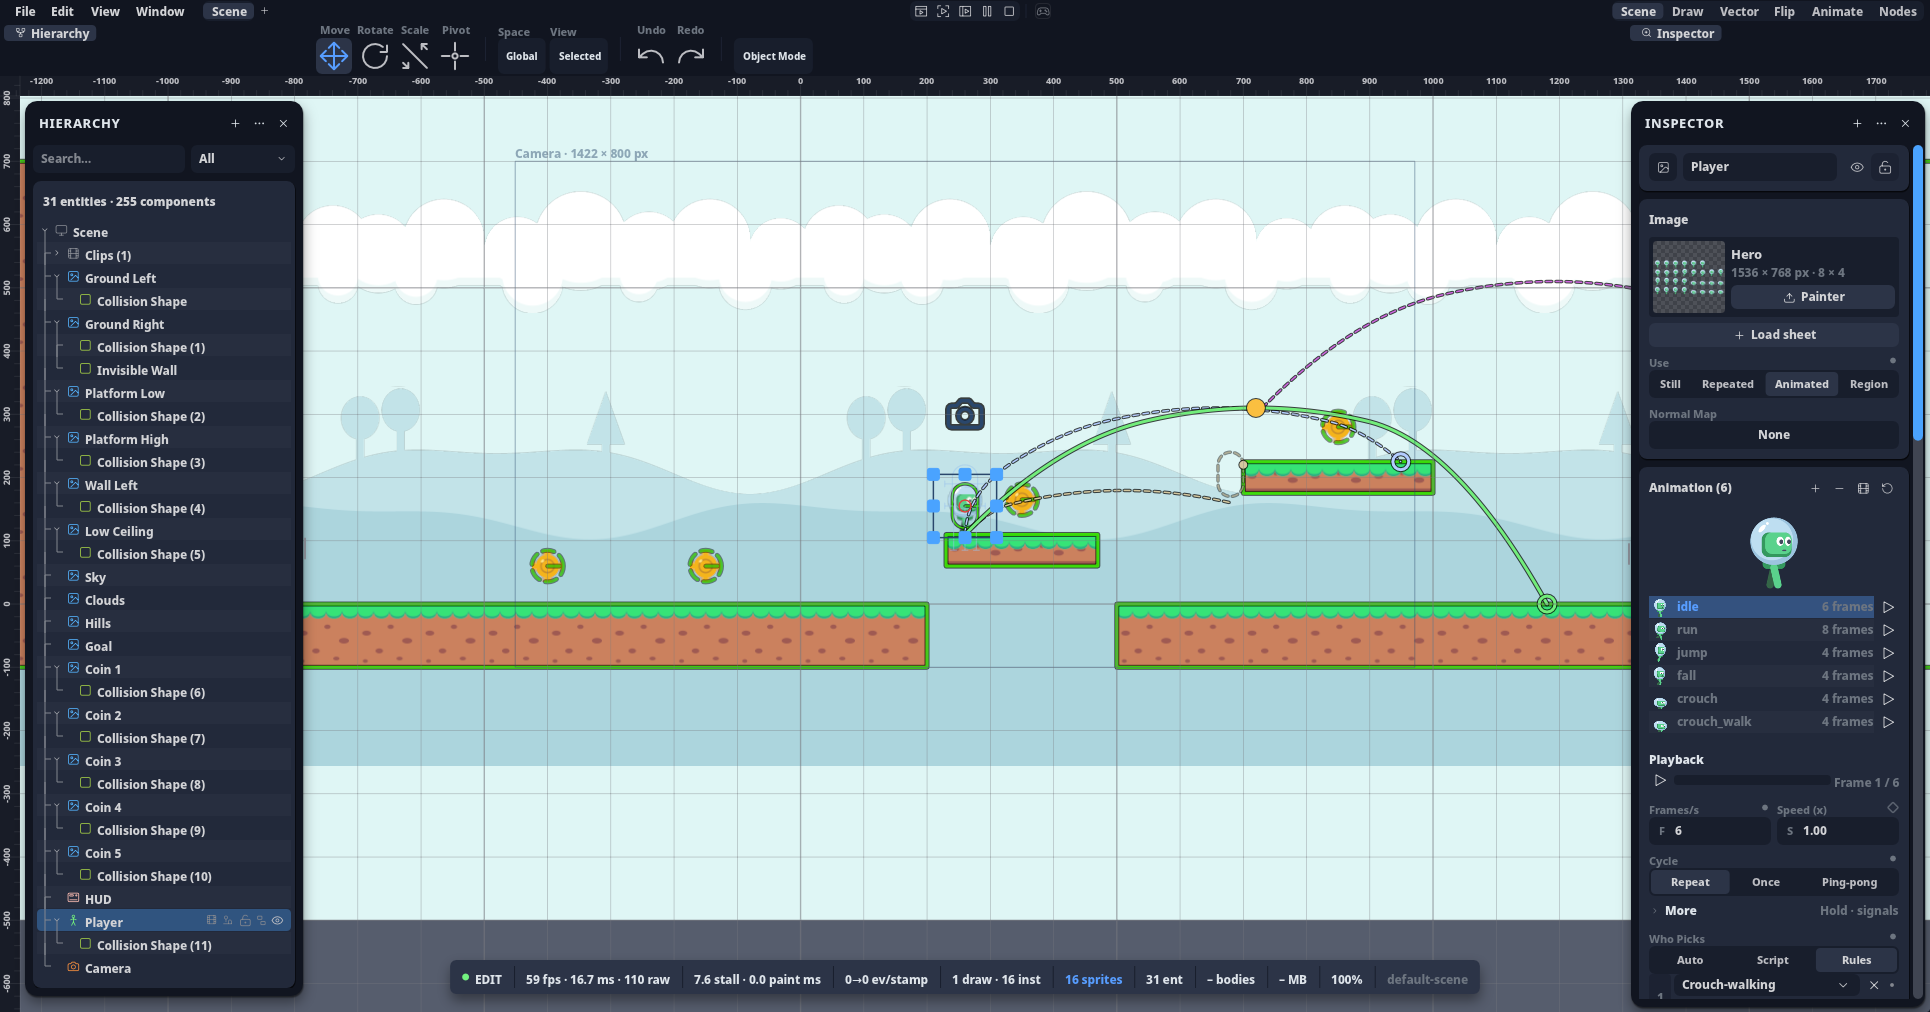
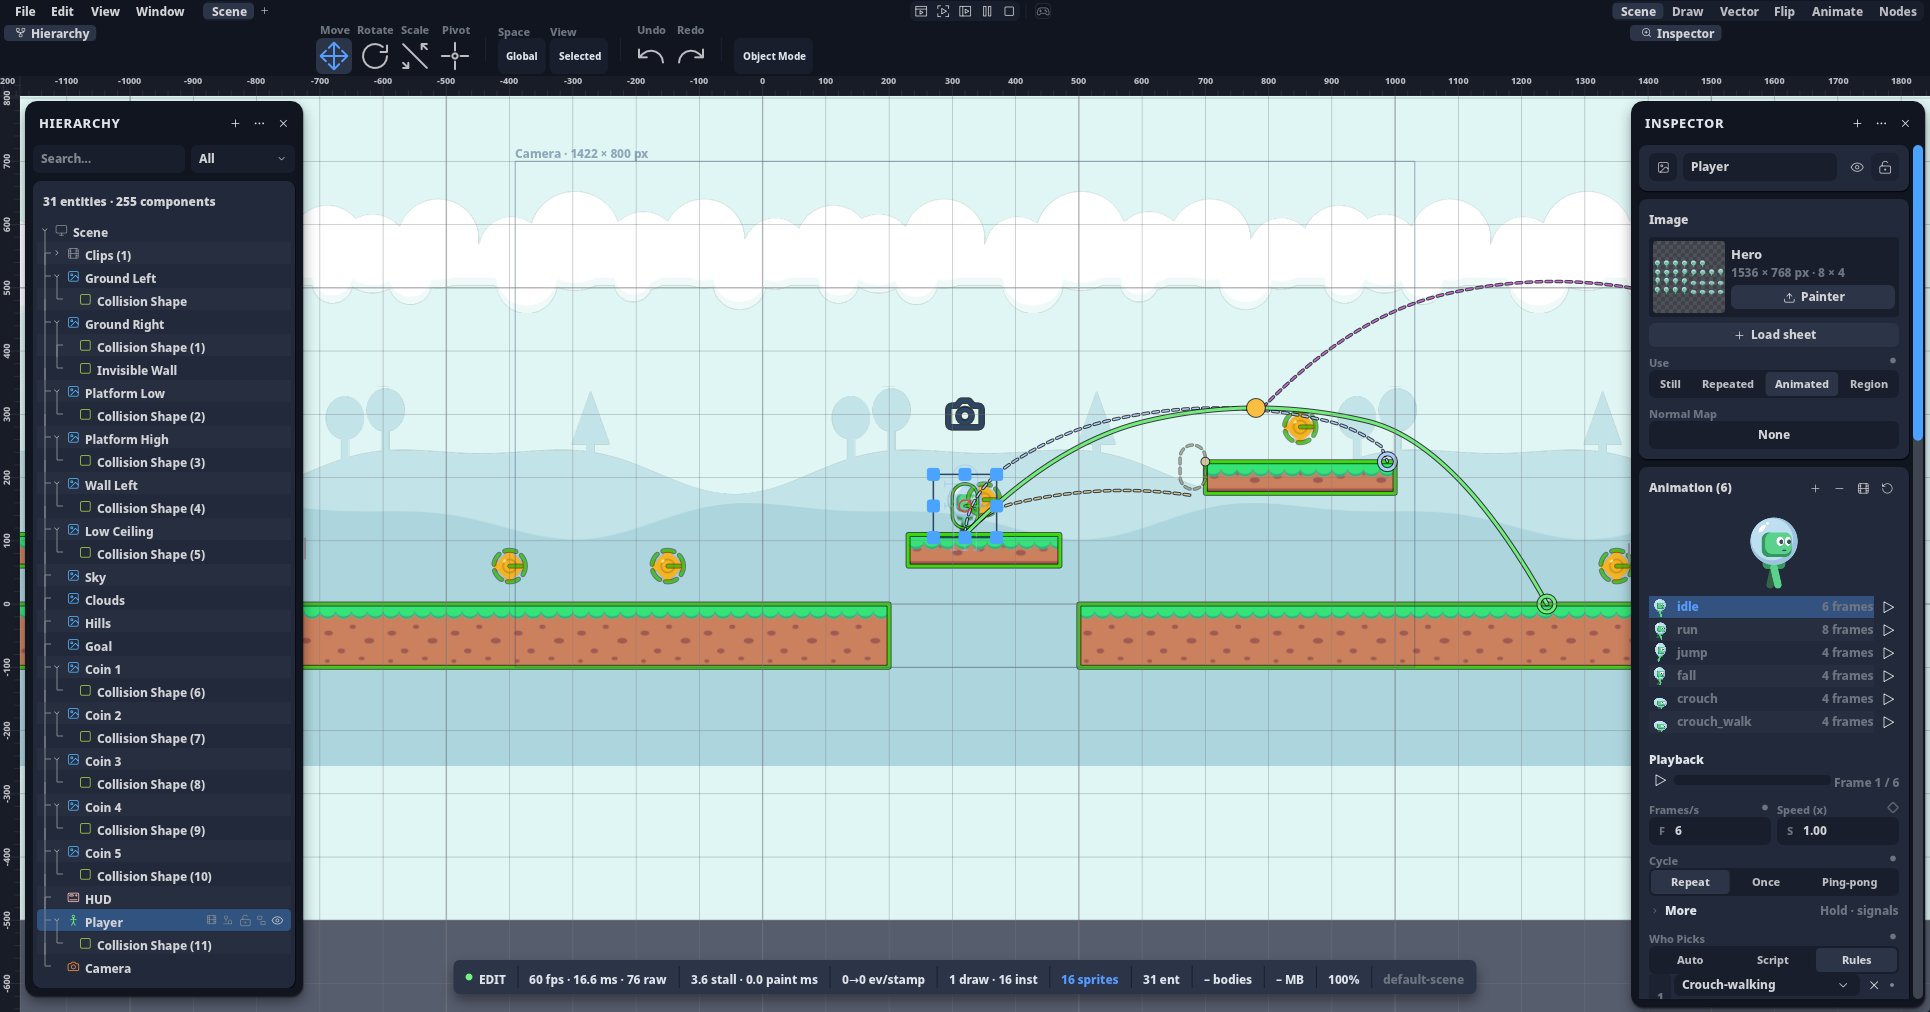
fix(GEF 04): a foto do terreno segue o pouso pela perna — recuo 2,1 → 1,5 m (o Full agarrava a borda da Platform High, no jogo e na curva) e gate novo contra o player real
Medido com o player real (ponte, cápsula sem atrito, LockRotation, assentado no pé da pose sobre a Platform Low prolongada à esquerda): a 2,1 m o Full sai do voo livre no tique 73 em x 9,90 / pé 2,36 (a perna agarra a borda da alta, x 10) — o mesmo tique e x da curva, logo é verdade do jogo, não defeito do corte. Viragens: o Full agarra a borda com recuo >= 1,75 (1,70 ainda desce ao chão, x 12,20); o Standing larga a alta com recuo <= 1,0. A 1,5 m: Full desce ao chão (x 12,40, tique 92), Standing pousa na alta (x 9,88, tique 73), Short bate na parede (x 6,8, pé 1,715; o x do jogo trava no mesmo tique). Gates: a_foto_do_terreno_desce_ao_chao_e_pousa_na_plataforma_alta exige o Full além da Platform High inteira (x > 10); a_foto_do_terreno_e_o_que_o_player_real_faz confere os três papéis (tipo de toque, tique e x) contra o jogo. Mutação recuo 2,1 => os dois vermelhos; restaurado. Fotos curva_terreno(.png|_zoom.png) e curva_e_cartao.png refeitas.

diff --git a/crates/ph2d-physics-scene/src/fotos_dos_cartoes_tests.rs b/crates/ph2d-physics-scene/src/fotos_dos_cartoes_tests.rs
@@ -107,8 +107,8 @@ fn a_foto_do_terreno_desce_ao_chao_e_pousa_na_plataforma_alta() {
     );
     let full = t.full.expect("o Full toca");
     assert!(
-        full[1].abs() < 0.05 && full[0] > 5.0,
-        "o Full desce ao chão de baixo, além do vão: {full:?}"
+        full[1].abs() < 0.05 && full[0] > ALTA_X[1],
+        "o Full passa a Platform High inteira e desce ao chão de baixo: {full:?}"
     );
     let st = t.standing.expect("o Standing toca");
     assert!(
@@ -131,4 +131,150 @@ fn a_foto_do_terreno_desce_ao_chao_e_pousa_na_plataforma_alta() {
 fn a_foto_do_pulo_deixa_o_player_onde_a_cena_o_pos() {
     let t = toques(&mut nivel(), CasoFisica::PlayerPulo);
     assert!((t.chao[0] + 8.0).abs() < 1e-4 && (t.chao[1] - 1.05).abs() < 1e-4);
+}
+
+/// Que curva o jogo corre: Full (salto seguro a correr), Standing (de parado), Short (toque curto).
+#[derive(Copy, Clone, Debug)]
+enum Salto {
+    Full,
+    Standing,
+    Short,
+}
+
+/// O player REAL (ponte, cápsula sem atrito, `LockRotation`, como o `Character` do menu) no nível da foto,
+/// assentado 60 tiques no pé da pose e a saltar. A «Platform Low» prolonga-se para a esquerda (borda direita e
+/// topo iguais) para ele chegar à velocidade da curva. Devolve a curva cortada e o salto do jogo, ambos
+/// relativos ao pé do arranque, e o voo livre da lei.
+fn salto_do_jogo(
+    salto: Salto,
+) -> (
+    ph2d_physics_ecs::jump_arc::JumpArc,
+    Vec<[f32; 2]>,
+    Vec<[f32; 2]>,
+) {
+    use ph2d_physics_ecs::{LockRotation, MaterialCombine, PhysicsBridge, PlayerInput};
+    let alvo_x = 4.7 - RECUO_DA_BORDA;
+    let monta = |x0: f32| {
+        let mut sim = nivel();
+        let low = por_nome(&mut sim, "Platform Low").expect("Platform Low");
+        let pl = por_nome(&mut sim, "Player").expect("Player");
+        let w = sim.world_mut();
+        w.get_mut::<Transform>(low).expect("pose").translation =
+            Vec2::new((4.7 - 30.0) * 0.5, 0.85);
+        w.get_mut::<Collider>(low).expect("caixa").shape = ColliderShape::Cuboid {
+            half_x: (4.7 + 30.0) * 0.5,
+            half_y: 0.25,
+        };
+        let forma = MaterialCombine::sem_atrito(ColliderShape::Capsule {
+            half_height: 0.15,
+            radius: 0.2,
+        });
+        w.entity_mut(pl).insert((forma, LockRotation));
+        w.get_mut::<PlatformPlayer>(pl).expect("player").air_jumps = 1;
+        w.get_mut::<Transform>(pl).expect("pose").translation = Vec2::new(x0, 1.1 + 0.45);
+        (sim, PhysicsBridge::new(), pl)
+    };
+    let drive = if matches!(salto, Salto::Standing) {
+        0.0
+    } else {
+        1.0
+    };
+    let assenta = |sim: &mut SimWorld, b: &mut PhysicsBridge, pl: Entity| {
+        for tick in 1..=60 {
+            b.set_player_input(
+                pl,
+                PlayerInput {
+                    drive,
+                    ..PlayerInput::default()
+                },
+            );
+            b.dispatch(sim, true, tick);
+        }
+    };
+    let pe = |sim: &SimWorld, pl: Entity| {
+        let t = sim.world().get::<Transform>(pl).expect("pose");
+        [t.translation.x, t.translation.y]
+    };
+    // Ensaio: quanto anda a assentar, para a pose assentada cair no pé da foto.
+    let (mut sim, mut b, pl) = monta(alvo_x);
+    assenta(&mut sim, &mut b, pl);
+    let anda = pe(&sim, pl)[0] - alvo_x;
+    let (mut sim, mut b, pl) = monta(alvo_x - anda);
+    assenta(&mut sim, &mut b, pl);
+    let p0 = pe(&sim, pl);
+    let s = b.settings();
+    let (mut arcs, fh) = {
+        let p = sim.world().get::<PlatformPlayer>(pl).expect("player");
+        (p.jump_arcs(arc_world(&s, 1.0)), p.float_height)
+    };
+    let pick = |a: &ph2d_physics_ecs::jump_arc::JumpArcs| match salto {
+        Salto::Full => a.full.clone(),
+        Salto::Standing => a.standing.clone(),
+        Salto::Short => a.short.clone(),
+    };
+    let voo = pick(&arcs).points;
+    let chao = [p0[0], p0[1] - fh];
+    ph2d_physics_ecs::arc_terrain::cut_on_terrain(sim.world(), &s, pl, chao, [0.0, 1.0], &mut arcs);
+    let mut jogo = vec![[0.0, 0.0]];
+    for i in 0..120_u64 {
+        let jump = !matches!(salto, Salto::Short) || i == 0;
+        b.set_player_input(
+            pl,
+            PlayerInput {
+                drive: 1.0,
+                jump,
+                ..PlayerInput::default()
+            },
+        );
+        b.dispatch(&mut sim, true, 61 + i);
+        let p = pe(&sim, pl);
+        jogo.push([p[0] - p0[0], p[1] - p0[1]]);
+    }
+    (pick(&arcs), jogo, voo)
+}
+
+/// **Os papéis da foto são o jogo**: o player real, na pose da foto, pousa/bate no MESMO tique em que a curva
+/// acaba e no mesmo sítio — o Full no chão de baixo, o Standing em cima da Platform High, o Short pára na parede
+/// dela (o x deixa o voo livre). A 2,1 m o Full agarrava a borda da alta com a perna, no jogo e na curva.
+#[test]
+fn a_foto_do_terreno_e_o_que_o_player_real_faz() {
+    // O primeiro tique em que o jogo sai do voo livre da lei, no eixo dado.
+    let sai = |jogo: &[[f32; 2]], voo: &[[f32; 2]], eixo: usize| {
+        (1..jogo.len().min(voo.len())).find(|&i| (jogo[i][eixo] - voo[i][eixo]).abs() > 1.0e-3)
+    };
+    for (salto, eixo, y) in [
+        (Salto::Full, 1, -1.1),
+        (Salto::Standing, 1, ALTA_TOPO - 1.1),
+        (Salto::Short, 0, f32::NAN),
+    ] {
+        let (arco, jogo, voo) = salto_do_jogo(salto);
+        let toque = arco
+            .touch
+            .unwrap_or_else(|| panic!("{salto:?}: a curva não toca"));
+        let tique = arco.points.len() - 1;
+        let i =
+            sai(&jogo, &voo, eixo).unwrap_or_else(|| panic!("{salto:?}: o jogo nunca sai do voo"));
+        let tipo = if y.is_nan() {
+            ph2d_physics_ecs::jump_arc::TouchKind::Bump
+        } else {
+            ph2d_physics_ecs::jump_arc::TouchKind::Land
+        };
+        assert_eq!(toque.kind, tipo, "{salto:?}: {toque:?}");
+        assert_eq!(
+            i, tique,
+            "{salto:?}: tique do jogo {i} × curva {tique} ({toque:?})"
+        );
+        assert!(
+            (jogo[tique][0] - toque.at[0]).abs() < 0.05,
+            "{salto:?}: x do jogo {:?} × curva {:?}",
+            jogo[tique],
+            toque.at
+        );
+        if !y.is_nan() {
+            assert!(
+                (toque.at[1] - y).abs() < 0.02,
+                "{salto:?}: a curva pousa à altura errada {toque:?}"
+            );
+        }
+    }
 }

diff --git a/crates/ph2d-physics-scene/src/fotos_dos_cartoes.rs b/crates/ph2d-physics-scene/src/fotos_dos_cartoes.rs
@@ -248,10 +248,11 @@ pub fn imagem_de(sim: &SimWorld, alvo: u64) -> u64 {
         .map_or(alvo, |c| c.parent().to_bits())
 }
 
-/// Do pé do player à borda direita da «Platform Low» (m). Sonda de 12/11 com os padrões: a 2,1 m o Standing
-/// pousa na alta (x 9,46), o Full desce ao chão (11,78) e o Short bate na parede da alta (6,8); a 0,5 m o
-/// Standing já passa por cima dela.
-pub const RECUO_DA_BORDA: f32 = 2.1;
+/// Do pé do player à borda direita da «Platform Low» (m). Pouso pela PERNA (12/11), contra o player real:
+/// a 1,5 m o Full desce ao chão (x 12,40), o Standing pousa na alta (9,88) e o Short bate na parede dela (6,8).
+/// O Full passa a agarrar a borda da alta (x 10) com recuo ≥ 1,75 (a 2,1 pousava lá); o Standing só a larga
+/// com recuo ≤ 1,0 — 1,5 fica no meio das duas viragens.
+pub const RECUO_DA_BORDA: f32 = 1.5;
 
 /// A borda direita e o topo da «Platform Low», pelo desenho do bloco (o azulejo tem o tamanho dele).
 fn borda_da_baixa(sim: &mut SimWorld) -> Option<[f32; 2]> {

diff --git a/docs/GameEngineFuncional/componentes/04_curva_do_pulo.md b/docs/GameEngineFuncional/componentes/04_curva_do_pulo.md
@@ -173,8 +173,9 @@ curto mais alto que o Snappy (Cut G menor); se o dono sentir, sobe o Cut G do He
   diz 2,00 e a alça fica a 2,00.
 - **Fotos** (`PH2D_GAME_SMOKE=4`): [`curva_terreno.png`](fotos_04/curva_terreno.png) ·
   [`curva_terreno_zoom.png`](fotos_04/curva_terreno_zoom.png) com `PH2D_GAME_SMOKE_FOTO=fisica_player_pulo_terreno`
-  (o Player sobre a «Platform Low», 2,1 m antes da borda: o Full desce ao chão da direita, o Standing pousa na
-  «Platform High», o Short pára na parede dela) · [`curva_e_cartao.png`](fotos_04/curva_e_cartao.png) refeita
+  (o Player sobre a «Platform Low», 1,5 m antes da borda — a 2,1 m a perna do Full agarrava a borda da alta, no
+  jogo e na curva: o Full desce ao chão da direita, o Standing pousa na «Platform High», o Short pára na parede
+  dela; gate `a_foto_do_terreno_e_o_que_o_player_real_faz` confere os três contra o player real) · [`curva_e_cartao.png`](fotos_04/curva_e_cartao.png) refeita
   com `fisica_player_pulo` (1930×1040: o Inspector rola até ao Platform Player — `cena_topdown::cartao_a_vista`,
   gate `a_foto_do_pulo_traz_o_cartao_platform_player_a_vista`; antes a Jump só cabia a 1972 px de altura. ⚠ O nome
   leva o prefixo `fisica_`: `player_pulo` não é foto nenhuma e a cena abre sem a caixa marcada). Gate da pose: `a_foto_do_terreno_desce_ao_chao_e_pousa_na_plataforma_alta`
